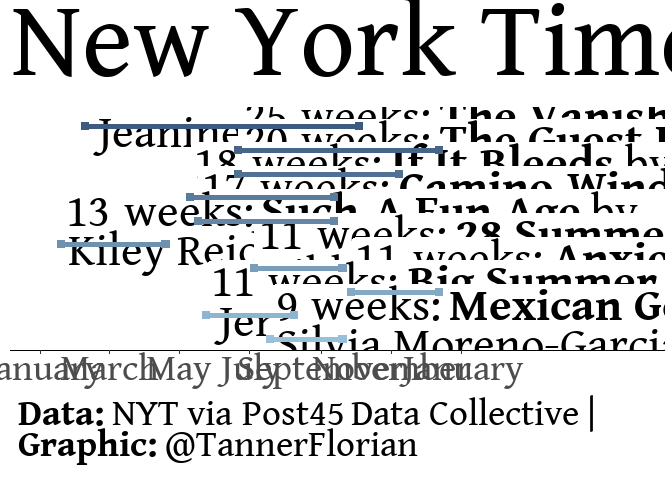
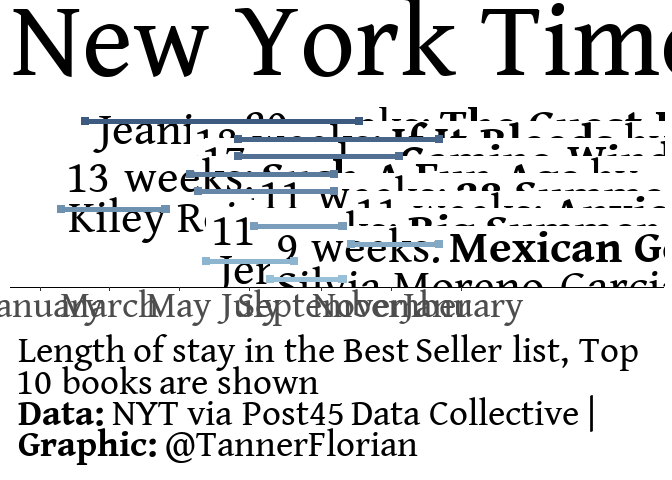
Update caption

Changed region(s): [[0.0, 0.2188, 1.0, 0.8438]]

diff --git a/2022/2022-05-10 NYTimes best sellers/2022-05-10-NYTimes-best-sellers.md b/2022/2022-05-10 NYTimes best sellers/2022-05-10-NYTimes-best-sellers.md
@@ -1,7 +1,7 @@
 2022-05-10 NYTimes best sellers
 ================
 Florian Tanner
-2022-05-10 23:02:14
+2022-05-10 23:33:35
 
 ``` r
 rm(list = ls())
@@ -102,7 +102,7 @@ p <- nyt_titles |>
                breaks = date_breaks_monthly)  +
   scale_color_gradient(low = "#98C1D9", high = "#3D5A80") +
   labs(title = "New York Times Best Sellers in 2020", 
-       caption = "**Data:** NYT via Post45 Data Collective | **Graphic:** @TannerFlorian") +
+       caption = "Length of stay in the Best Seller list, Top 10 books are shown <br>**Data:** NYT via Post45 Data Collective | **Graphic:** @TannerFlorian") +
   theme_bestsellers
   
 p
